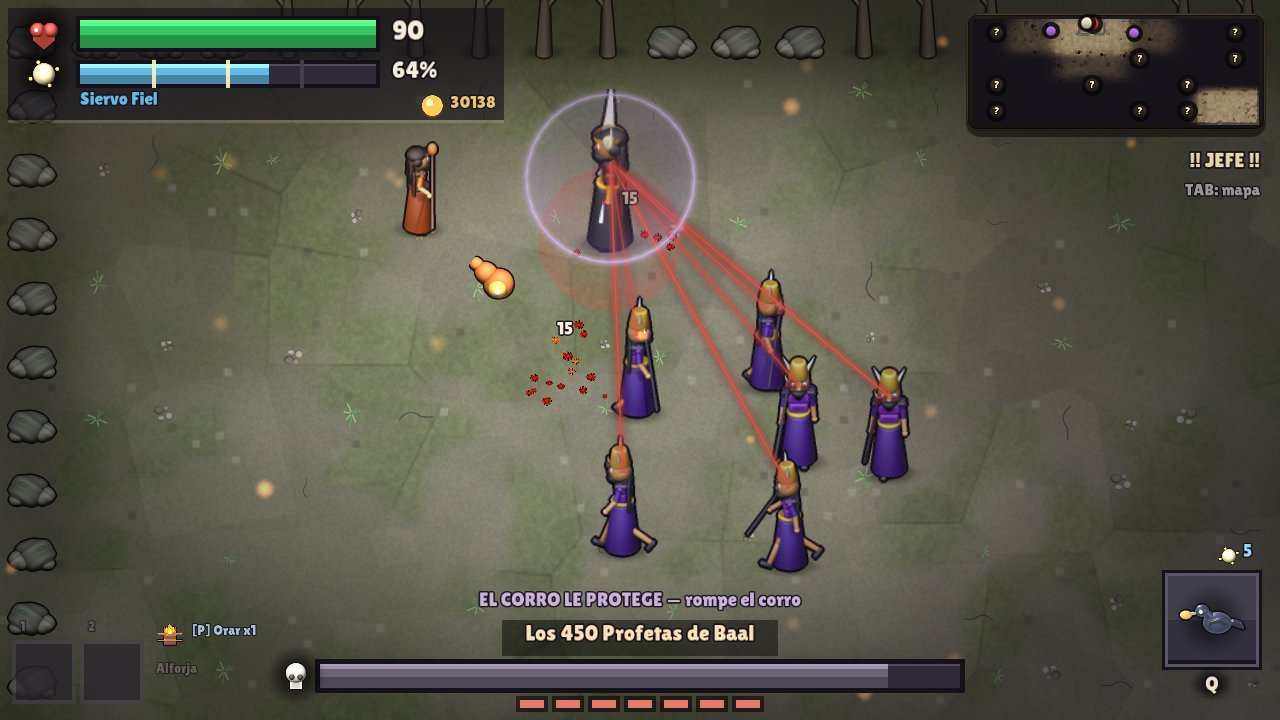
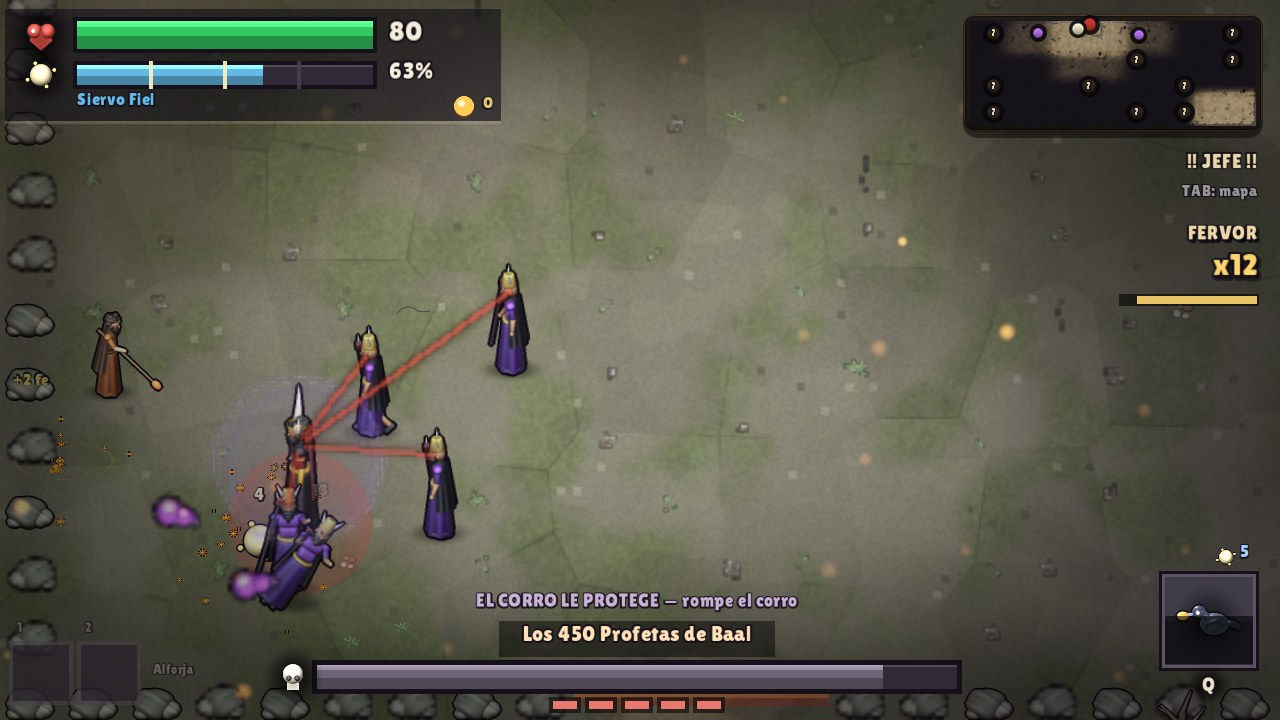
GDD, README y CLAUDE.md: la Destreza y los personajes adultos
- GDD2.0.md: secciones 4ter (Destreza: Celo, crítico y esquiva perfecta) y
  4quater (proporciones adultas); la estética de la tabla del v1.0 lo dice.
- README bilingüe: la nueva mecánica en la lista del juego y las cinco
  capturas rehechas con los muñecos nuevos (título, combate con el contador de
  Celo, mapa, Elías ante Acab y el jefe del Carmelo). La receta para rehacerlas
  queda en scripts/readme_shots.txt.
- CLAUDE.md raíz: el aspecto ya no es el cabezón de Clash Royale y la tabla de
  subsistemas apunta a Config::Skill.

Claude-Session: https://claude.ai/code/session_01M6xZTvA3LpFA2qUQWcG9zT

diff --git a/GDD2.0.md b/GDD2.0.md
@@ -449,6 +449,35 @@ migración desde cualquier versión anterior.
 
 ---
 
+## 4ter. Destreza: que jugar bien se note (2026-11-10)
+
+El usuario: *"mejora este juego para hacerlo mas divertido"*. El tacto ya hacia que cada golpe
+pesara; lo que faltaba es que jugar BIEN se sintiera distinto de jugar regular. Referencias:
+la racha que se cobra al cerrarla (los "combo meter" de los juegos de accion) y la esquiva
+perfecta con camara lenta (Bayonetta, Hades con su dash). Tres piezas, ninguna toca el mundo
+fijo ni el guardado:
+
+1. ✅ **Celo, la racha** (1 R 19:10: "sentido he un vivo celo por Jehova"). Golpes y bajas
+   encadenados sin que te toquen. Grados Fervor / Celo / Celo Ardiente con dano, critico, fe y
+   vida mientras dura; si se enfria limpia **paga ofrendas**; un golpe recibido la rompe sin
+   paga. Es riesgo contra recompensa: seguir peleando para no perderla o dejarla cerrar.
+2. ✅ **Critico**: un tiro de cada ~20 entra x1,5 con su numero, su sonido y su pausa.
+3. ✅ **Esquiva perfecta**: atravesar en pleno dash un proyectil, un telegrafo o la carga de
+   un jefe congela el tiempo un instante, recarga el dash, da fe y racha, y deja el siguiente
+   tiro critico. Convierte el dash de "boton de huir" en la jugada que mas paga.
+
+Cifras, donde vive cada cosa y la medida (el jefe del Carmelo pasa de 23,5 a 20,6 s con el
+bot de punteria perfecta): `src/core/CLAUDE.md`, "Destreza".
+
+## 4quater. Personajes de proporciones adultas (2026-11-10)
+
+El usuario: *"que no se vean tan infantiles, sino mas maduros"*. Fin de la figurita cabezona:
+cabeza a escala casi real (~6 cabezas de alto), cara esculpida por sus sombras (arco de la
+ceja, ojos entornados, nariz en cuna, mandibula), capa que cae y color de tierra. Sigue siendo
+el mismo muneco 3D suave (no pixel art, no realismo): lo que cambia es la EDAD que aparenta.
+Detalle en `tools/blender/CLAUDE.md`, "Personajes maduros". El icono del juego se rehizo con
+ellos (`tools/branding/CLAUDE.md`).
+
 ## 5. Personajes no jugables
 
 El PNJ del encuentro se dibujaba con la celda de **antorcha** del tileset. Eso se acabó.
@@ -495,7 +524,7 @@ El PNJ del encuentro se dibujaba con la celda de **antorcha** del tileset. Eso s
 | Cobertura bíblica | los episodios de titular | **todo** Elías y Eliseo en 1-2 Reyes |
 | PNJ | icono del tileset | entidad con sprite propio |
 | Duración de run | 20-35 min | 45-60 min (el autoguardado por sala ya sostiene la sesión móvil de 5-15) |
-| Estética | "Pixel Art 16-bit" | figurita 3D suave (decidido 2026-08-19) |
+| Estética | "Pixel Art 16-bit" | figurita 3D suave (decidido 2026-08-19), de proporciones adultas (2026-11-10) |
 | Personajes desbloqueables | tercer profeta jugable | **cosméticos** (decidido 2026-08-25) |
 | Meta-progresión | 8 mejoras de cifra | El Santuario con rangos y dones que cambian la partida (2026-10-03) |
 | Consumibles | carta de elección, 1 hueco | se encuentran en el mundo; alforja de 2-4 huecos (2026-10-03) |

diff --git a/CLAUDE.md b/CLAUDE.md
@@ -2,7 +2,7 @@
 
 ## Overview
 
-MANTLE is a 2D top-down roguelike action game (smooth "3D figurine" look, Clash-Royale-like, NOT pixel art anymore) inspired by the biblical prophets Elijah (Elias) and Elisha (Eliseo). Built in C++17 with SDL3, it targets Desktop (Windows/Linux/Mac), Web (Emscripten), Android, and iOS. The game follows a two-act structure where Act I stars Elias and Act II stars Eliseo, connected by an "Ascension" transition where items and faith transfer between characters.
+MANTLE is a 2D top-down roguelike action game (smooth "3D figurine" look with ADULT proportions since 2026-11-10 — no longer the big-headed Clash-Royale style; NOT pixel art) inspired by the biblical prophets Elijah (Elias) and Elisha (Eliseo). Built in C++17 with SDL3, it targets Desktop (Windows/Linux/Mac), Web (Emscripten), Android, and iOS. The game follows a two-act structure where Act I stars Elias and Act II stars Eliseo, connected by an "Ascension" transition where items and faith transfer between characters.
 
 ## Build System
 
@@ -145,6 +145,7 @@ docs/               - temas largos, se leen bajo demanda
 | Input | `input/input.h` | `Input` | Action enum, device-agnostic |
 | Audio | `audio/audio.h` | `Audio` | MIX_Mixer*, MIX_Track*, MIX_Audio* |
 | Faith | `game/faith.h` | `FaithSystem` | Core mechanic, 6 tiers |
+| Destreza | `core/config.h` (`Config::Skill`) | `Engine::Zeal` | Racha (Celo), criticos y esquiva perfecta; ver `src/core/CLAUDE.md` |
 | Combat | `game/combat.h` | (free functions) | O(n^2) collision, projectiles |
 | Rooms | `game/rooms.h` | `Room`, `FloorMap` | tiles de 16 unidades; **zona continua** por capitulo (`RoomType::Zone`, celdas de 40x22 cosidas en 6x4 / 6x5 hasta 240x110; arena del jefe dentro de la celda B, pegada a un borde distinto por capitulo; el jefe se averigua con pistas, `get_boss_intel`); interior 20x11 |
 | Save | `systems/save.h` | `SaveSystem` | Binary format, version 12 (migra v3..v11) |

diff --git a/README.md b/README.md
@@ -30,6 +30,10 @@ Written from scratch in C++17 on SDL3, with no game engine.
 - **Faith** is the core resource: it powers the 10 miracles and scales across 6 tiers.
 - **39 encounters** drawn from the biblical text, 22 items, 18 achievements, and a
   meta-progression hub (El Santuario) with 21 ranked upgrades.
+- **Skill pays off.** Chain hits without getting touched to build *Zeal* (Fervor, Zeal,
+  Burning Zeal): more damage, crits and faith while it lasts, and offerings when it cools
+  down clean — one hit breaks it. Dash through an arrow or a boss attack at the last
+  instant for a perfect dodge: slow motion, the dash back at once and a guaranteed crit.
 - Scripture is quoted verbatim from public-domain translations: Reina-Valera 1909 in
   Spanish, King James Version in English. Enemies and events are checked
   against the text.
@@ -108,6 +112,11 @@ Escrito desde cero en C++17 sobre SDL3, sin motor de juego.
 - **La fe** es el recurso central: alimenta los 10 milagros y escala en 6 niveles.
 - **39 encuentros** sacados del texto bíblico, 22 objetos, 18 logros y un lugar de
   meta-progreso (El Santuario) con 21 mejoras por rangos.
+- **Jugar bien se nota.** Encadena golpes sin que te toquen y crece el *Celo* (Fervor, Celo,
+  Celo Ardiente): más daño, críticos y fe mientras dura, y ofrendas si se enfría limpio — un
+  golpe lo rompe. Atraviesa con el dash una flecha o el ataque de un jefe en el último
+  instante y es una esquiva perfecta: cámara lenta, el dash de vuelta al momento y un
+  crítico asegurado.
 - Las citas bíblicas van literales y salen de traducciones de dominio público: la
   Reina-Valera 1909 en español y la King James en inglés. Enemigos y sucesos se
   contrastan con el texto.
